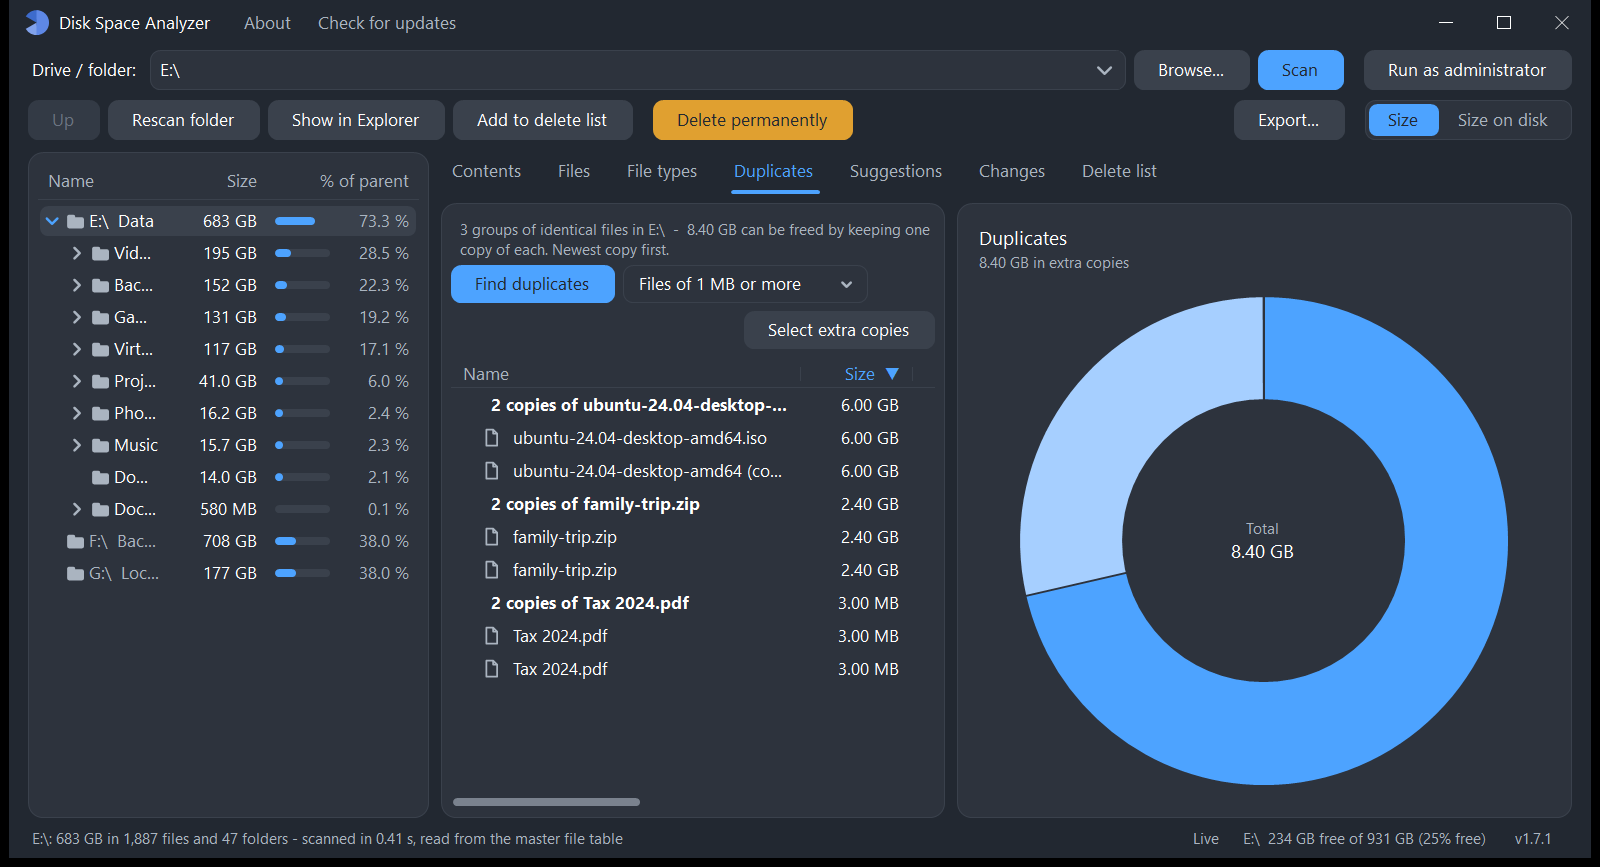
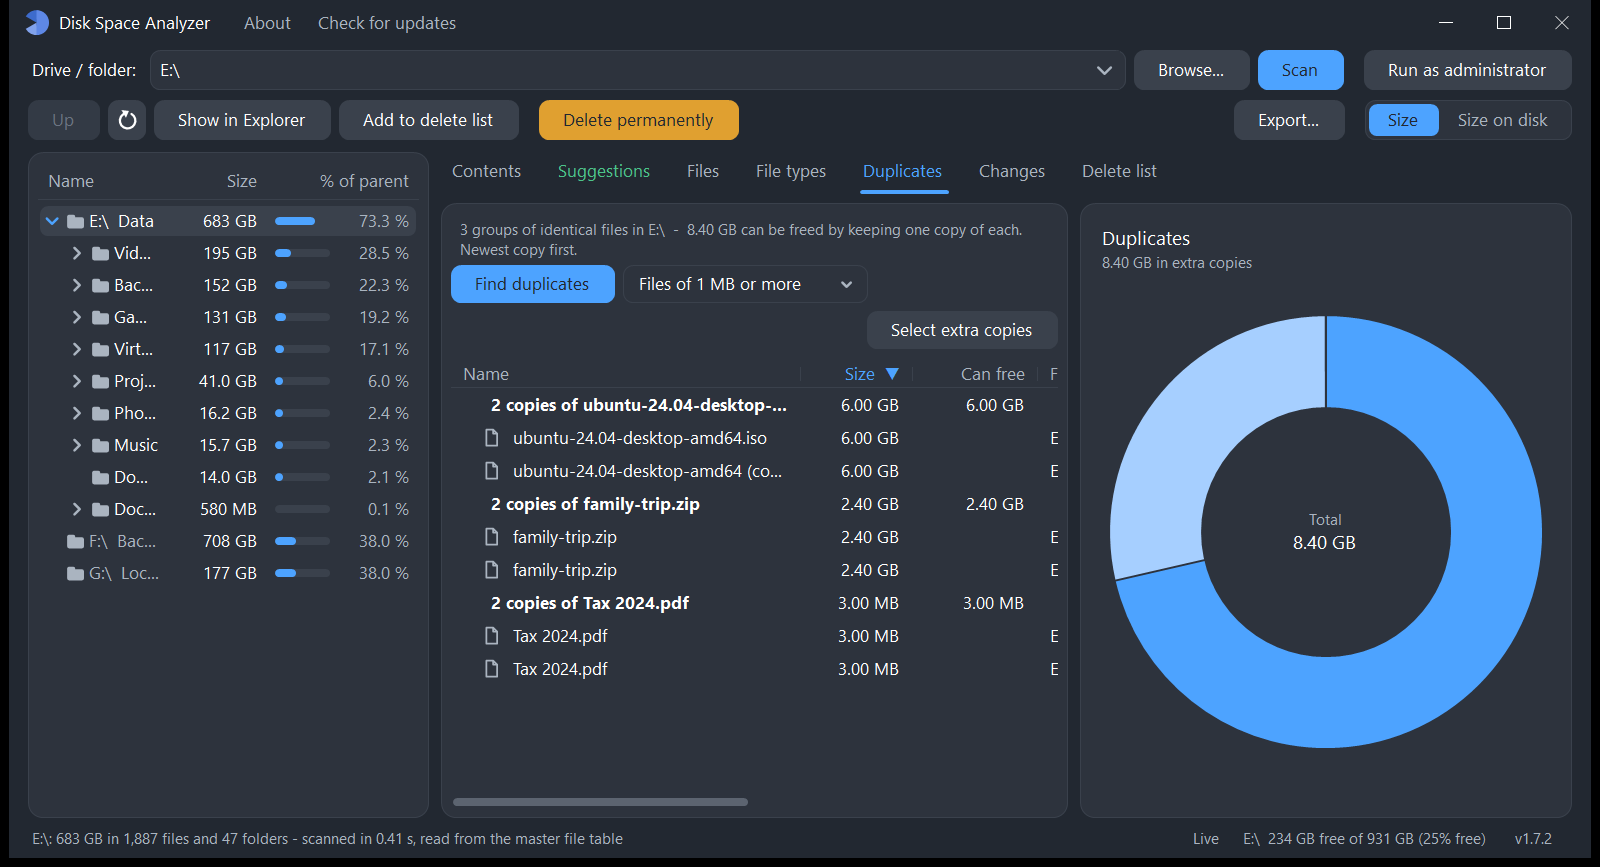
Contents first again (app opens there), Suggestions second; chart pane 4/5 of its height; version 1.7.3

diff --git a/macos/Sources/DiskSpaceAnalyzer/MainWindow.swift b/macos/Sources/DiskSpaceAnalyzer/MainWindow.swift
@@ -270,9 +270,9 @@ final class MainWindowController: NSWindowController, NSOutlineViewDataSource, N
 
     convenience init() {
         let vf = NSScreen.main?.visibleFrame ?? NSRect(x: 0, y: 0, width: 1440, height: 900)
-        // Wide enough for the tree, a list of about 400 px and a square chart pane as high as the split view.
+        // Wide enough for the tree, a list of about 400 px and a chart pane 4/5 as wide as the split view is high.
         let height = min(760, vf.height * 0.85)
-        let wanted = 2 * 15 + 430 + 2 + 400 + (height - MainWindowController.chromeHeight - 36)
+        let wanted = 2 * 15 + 430 + 2 + 400 + (height - MainWindowController.chromeHeight - 36) * 0.8
         let size = NSSize(width: min(max(1280, wanted), vf.width * 0.92), height: height)
         let w = NSWindow(contentRect: NSRect(origin: .zero, size: size), styleMask: [.titled, .closable, .miniaturizable, .resizable], backing: .buffered, defer: false)
         w.title = "Disk Space Analyzer"
@@ -412,13 +412,13 @@ final class MainWindowController: NSWindowController, NSOutlineViewDataSource, N
         rightPane.onLayout = { [unowned self] r in
             self.viewTabs.frame = NSRect(x: 0, y: 0, width: r.width, height: 30)
             self.split2.frame = NSRect(x: 0, y: 36, width: r.width, height: max(50, r.height - 36))
-            // Once the tree has its width: the chart pane as wide as it is high (the largest chart), the list gets the rest.
+            // Once the tree has its width: the chart pane 4/5 as wide as it is high, the list gets the rest.
             if self.splitPositioned && !self.split2Positioned && r.width > 400 {
                 self.split2Positioned = true
                 let w = r.width, div = self.split2.dividerThickness
                 // The height without the scan bar (the first scan may have started already).
                 let h = self.root.bounds.height - MainWindowController.chromeHeight - 36
-                let chartW = max(180, min(h, w - MainWindowController.listMinWidth - div))
+                let chartW = max(180, min(h * 0.8, w - MainWindowController.listMinWidth - div))
                 self.split2.setPosition(w - chartW - div, ofDividerAt: 0)
             }
         }

diff --git a/macos/Sources/DiskSpaceAnalyzer/SelfTest.swift b/macos/Sources/DiskSpaceAnalyzer/SelfTest.swift
@@ -84,15 +84,16 @@ final class SelfTestRun {
 
     func start() {
         let w = self.w
-        // Start-up: Suggestions is the first tab and open; it finds the suggestions by itself.
+        // Start-up: Contents is the first tab and open, Suggestions second; suggestions are found by themselves.
         steps.then {
-            self.check(w.pages.first === w.pSuggest && w.viewTabs.selectedIndex == 0 && w.activePage === w.pSuggest,
-                       "start: Suggestions is the first tab and the one open")
+            self.check(w.pages.first === w.pContents && w.pages.count > 1 && w.pages[1] === w.pSuggest && w.viewTabs.selectedIndex == 0 && w.activePage === w.pContents,
+                       "start: Contents is the first tab and the one open, Suggestions second")
+            if let i = w.pages.firstIndex(where: { $0 === w.pSuggest }) { w.viewTabs.selectedIndex = i }
         }
         steps.waitUntil(90) { w.suggestions != nil && !w.suggestFinding }
         steps.then {
             self.check(w.suggestions != nil && !w.pSuggest.headline.text.isEmpty == !w.shownSuggestions.isEmpty,
-                       "start: suggestions found without opening the tab (headline \"\(w.pSuggest.headline.text)\")")
+                       "start: suggestions found when the tab is opened (headline \"\(w.pSuggest.headline.text)\")")
             // Picking a folder in the tree (keyboard: Down) while Suggestions is open shows the Contents of that folder.
             w.window?.makeFirstResponder(w.outline)
             if let r = self.root { w.selectDir(r) }
@@ -480,8 +481,10 @@ final class ShotRun {
     func start() {
         let w = app.main!
         let contentsIndex = w.pages.firstIndex { $0 === w.pContents } ?? 1
-        // The app opens on Suggestions.
+        // The app opens on Contents; the first shots show Suggestions.
+        let suggestIndex = w.pages.firstIndex { $0 === w.pSuggest } ?? 1
         steps.waitUntil(90) { w.suggestions != nil && !w.suggestFinding }
+        steps.then { w.viewTabs.selectedIndex = suggestIndex }
         steps.wait(1.5)
         steps.then { self.shot("0-suggestions-start") }
         var saved: [Suggestion]?

diff --git a/macos/Sources/DiskSpaceAnalyzer/Pages.swift b/macos/Sources/DiskSpaceAnalyzer/Pages.swift
@@ -11,8 +11,6 @@ extension MainWindowController {
     var activePage: Page { pages[min(max(0, viewTabs.selectedIndex), pages.count - 1)] }
 
     func buildViews() {
-        // Suggestions is the first tab and the one open at start.
-        pSuggest = buildSuggestionsPage(); pages.append(pSuggest)
 
         pContents = Page("Contents", [Column("name", "Name", 210), Column("size", "Size", 80, true), Column("size", "% of folder", 125, true),
                                       Column("change", "Change", 80, true), Column("files", "Files", 74, true), Column("dirs", "Folders", 66, true),
@@ -20,6 +18,9 @@ extension MainWindowController {
         pContents.followsFolder = true
         pContents.fill = { [unowned self] in if let c = self.current, self.isAttached(c) { self.showContents(c) } }
         pages.append(pContents)
+
+        // Suggestions comes right after Contents (the app opens on Contents).
+        pSuggest = buildSuggestionsPage(); pages.append(pSuggest)
 
         // Files: the whole index under the selected folder, filtered; largest first.
         fileSearch.onChange = { [unowned self] in self.fillFiles() }

diff --git a/src/MainForm.cs b/src/MainForm.cs
@@ -332,8 +332,8 @@ namespace DiskSpaceAnalyzer
             {
                 // Tree and chart keep their preferred widths but give way on narrow windows, so the list stays usable.
                 split.SplitterDistance = Math.Min(S(380), split.Width * 26 / 100);
-                // The chart pane is square (as wide as it is tall) for the largest chart; the list keeps at least 380 px.
-                int chartW = Math.Max(S(220), Math.Min(split2.Height, split2.Width - S(380) - split2.SplitterWidth));
+                // The chart pane is 4/5 as wide as it is tall (a large chart, the list keeps more room; at least 380 px).
+                int chartW = Math.Max(S(220), Math.Min(split2.Height * 4 / 5, split2.Width - S(380) - split2.SplitterWidth));
                 split2.SplitterDistance = Math.Max(S(200), split2.Width - chartW - split2.SplitterWidth);
                 LoadDrives();
                 RefreshTree(null);

diff --git a/src/Views.cs b/src/Views.cs
@@ -83,14 +83,14 @@ namespace DiskSpaceAnalyzer
             pChanges = BuildChangesPage();
             pBasket = BuildBasketPage();
 
-            // Suggestions is the first tab and the one the app opens on.
+            // Contents first (the app opens on it), then Suggestions.
             pages.Remove(pSuggest);
-            pages.Insert(0, pSuggest);
+            pages.Insert(pages.IndexOf(pContents) + 1, pSuggest);
             viewTabs = new TabStrip(pages.Select(p => p.Title).ToArray()) { Dock = DockStyle.Top };
             viewTabs.SelectedIndexChanged += (s, e) => ShowPage();
             viewTabs.SetColor(pages.IndexOf(pSuggest), Theme.SUGGEST);
             foreach (var p in pages) listPanel.Controls.Add(p.Root);
-            pSuggest.Root.Visible = true;
+            pContents.Root.Visible = true;
         }
 
         SizeListView NewList(string[] titles, string[] keys, int[] widths, int barColumn)

diff --git a/src/Program.cs b/src/Program.cs
@@ -7,8 +7,8 @@ using System.Windows.Forms;
 [assembly: AssemblyDescription("Fast disk space analyzer and cleaner for Windows")]
 [assembly: AssemblyProduct("Disk Space Analyzer")]
 [assembly: AssemblyCopyright("Copyright (c) 2026 sphrd - MIT License")]
-[assembly: AssemblyVersion("1.7.2.0")]
-[assembly: AssemblyFileVersion("1.7.2.0")]
+[assembly: AssemblyVersion("1.7.3.0")]
+[assembly: AssemblyFileVersion("1.7.3.0")]
 
 namespace DiskSpaceAnalyzer
 {

diff --git a/APP_NOTES.md b/APP_NOTES.md
@@ -134,6 +134,9 @@ patterns (Part 3) are applied through the WinForms mapping below.
   middle pane) i still dont see the preview that shows full path and name of the file next to the cursor (or bundled paths for
   suggestions in different dirs)"
 
+- 2026-10-29: "make the chart window a bit smaller by default. make the Contents tab the default tab again. then u can commit and
+  release" (asked: Contents first and opens there, Suggestions second).
+
 ## WinForms mapping of the design language
 
 - Tokens and fonts live only in `Theme.cs`; widgets use those names, no inline hex.
@@ -252,7 +255,7 @@ patterns (Part 3) are applied through the WinForms mapping below.
   Since v1.7 this is built in: `.\tools\make_demo.ps1 C:\Demo` (sparse files, ~250 MB on disk, a few duplicate pairs),
   `DiskSpaceAnalyzer.exe --cli screenshot <out> C:\Demo --demo` (finds duplicates first, then shows the folder as
   `E:\ Data` with made-up `F:\`/`G:\` drives; skips Suggestions and Changes, which would show this PC), copy
-  `2-contents.png` to `assets\screenshot.png` and `5-duplicates.png` to `assets\screenshot-duplicates.png`, then
+  `1-contents.png` to `assets\screenshot.png` and `5-duplicates.png` to `assets\screenshot-duplicates.png`, then
   `.\tools\make_demo.ps1 C:\Demo -Remove` and delete `%LOCALAPPDATA%\DiskSpaceAnalyzer\history`.
 - Repo logo: `assets/app.png` at the top of the README; `assets/social-preview.png` is the GitHub social preview
   (Settings > General > Social preview; GitHub has no API for it, so it is uploaded by hand).
@@ -305,7 +308,7 @@ patterns (Part 3) are applied through the WinForms mapping below.
 - **Deletion** goes through `DeleteTarget` (file, folder, folder contents only, Recycle Bin) and `ConfirmAndDelete`;
   afterwards `ApplyDeleted` drops removed nodes and rescans folders that still exist. Contents-only targets skip files in
   use quietly (counted). Recycle uses `SHFileOperation` with ALLOWUNDO + WANTNUKEWARNING.
-- **Default layout:** the chart pane is square (as wide as the panes are tall), the list keeps at least 380 px.
+- **Default layout:** the chart pane is 4/5 as wide as the panes are tall (square in v1.7.2, a bit big), the list keeps at least 380 px.
 - **Suggestions tree:** parent rows (chevron + three-state checkbox) and child rows per target (`ItemInfo.Check`,
   `Expandable`, `Data`; children use `GroupOf` so they share the parent's chart slice). Clicks on the chevron/checkbox are
   caught in `WM_LBUTTONDOWN` before the list selects the row. Safe suggestions start ticked, review-first ones unticked.
@@ -323,10 +326,10 @@ patterns (Part 3) are applied through the WinForms mapping below.
   attached tooltip and sizes it to the row (text cut off). Rows and nodes use `Hover()`: a separate owner-drawn ToolTip shown
   on the form 16/20 px from the cursor 450 ms after the row changes, hidden on leave/click/scroll. Suggestions in several places
   list up to 8 paths. Screenshot mode checks it with the real cursor (`*-hover.png`).
-- **Suggestions tab** is first and the app opens on it; bar = circular-arrow refresh (icon button), Select all, Deselect all,
+- **Suggestions tab** is second (after Contents, which the app opens on; v1.7.3); bar = circular-arrow refresh (icon button), Select all, Deselect all,
   Delete permanently (compact 9 pt buttons); headline `<size> can be freed` 15 pt bold in `SUGGEST`. Clicking a tree folder
   while on Suggestions switches to Contents. **Rescan folder** is a circular-arrow icon button (`RoundButton.Glyph`).
-  Shots are now numbered in tab order: `1-suggestions`, `2-contents`, ... `5-duplicates`.
+  Shots are numbered in tab order: `1-contents`, `2-suggestions`, ... `5-duplicates`.
 - **Chart centre** shows the shown folder's name and size (not "Total"); in Contents it is clickable and goes up one
   folder (the reverse of clicking a slice). **Size on disk** is the default measure.
 - **Gotcha (morph not visible):** the logo-to-chart morph was timed by the wall clock; right after a big scan the UI
@@ -374,3 +377,7 @@ patterns (Part 3) are applied through the WinForms mapping below.
 - v1.7.2 (2026-10-29): macOS never downloads iCloud files or folders (dataless items are skipped, materialization off),
   first-run Full Disk Access prompt and no per-folder prompts without it, dmg with a drag-to-Applications arrow; square chart
   pane on both platforms; README rewritten.
+- v1.7.3 (2026-10-29): Suggestions as a checkbox tree (Select all / Deselect all / Delete permanently, green tab, big headline);
+  hover box with full name and path for every row and folder; circular-arrow Rescan; Ctrl/Cmd+D add to delete list,
+  Ctrl/Cmd+Shift+D delete permanently; delete list keeps the real remaining size after a partial delete; suggestions refresh
+  after any change; live updates never drop outside changes; permission buttons hide when granted; chart pane 4/5.

diff --git a/README.md b/README.md
@@ -46,7 +46,7 @@ open list, and hovering a slice highlights its row and the other way round)
   disk images, installers...).
 - **Duplicates:** files with identical content; **Select extra copies** keeps
   the newest of each group.
-- **Suggestions** (the first tab, where the app opens): how much can be freed, in
+- **Suggestions** (the green tab next to Contents): how much can be freed, in
   large print, and what: the Recycle Bin / Trash, temporary files, caches
   (browsers, developer tools, Xcode, Homebrew...), `node_modules` folders, old
   installers in Downloads, and more, each with what deleting it means. Expand a
